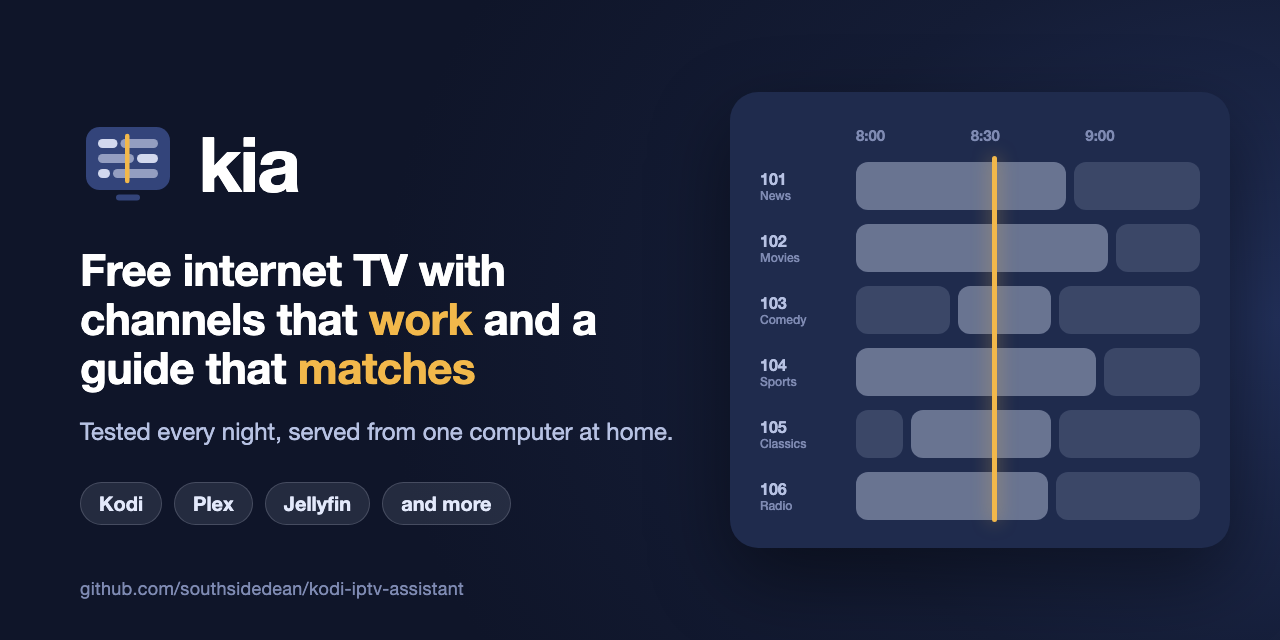
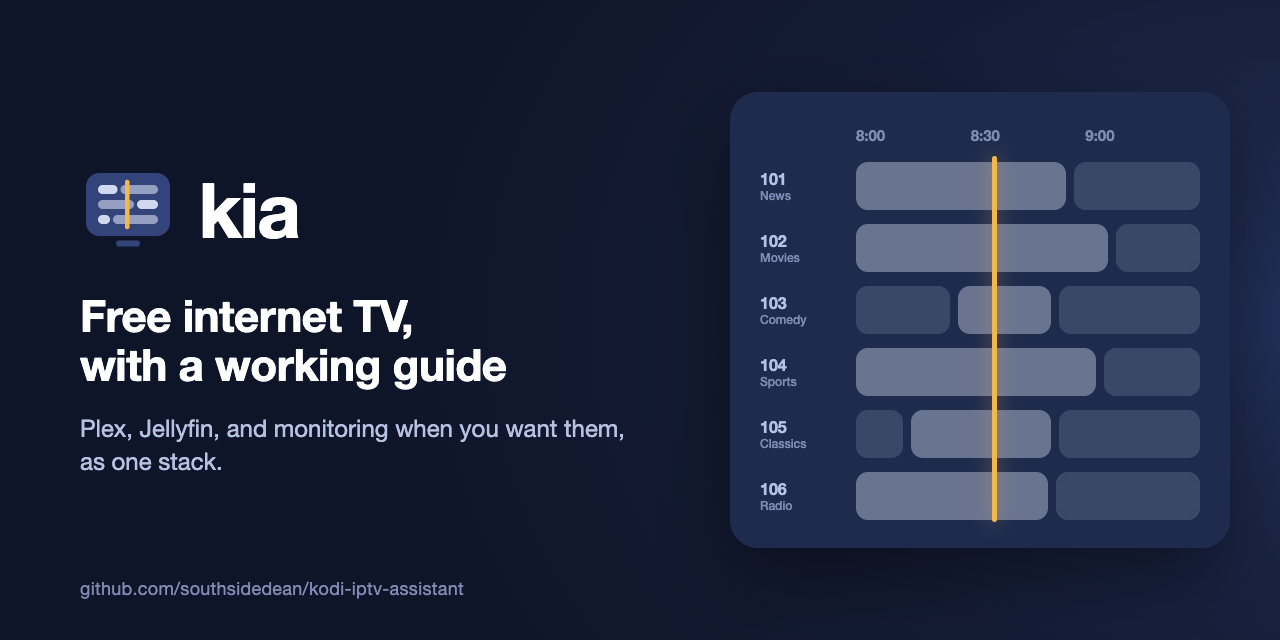
Plainer words on the social preview (#284)
The social preview's words read like a slogan, and the card was busy. It
now says two plain things: the headline "Free internet TV, with a
working guide", and under it "Plex, Jellyfin, and monitoring when you
want them, as one stack." The player pills and the highlighted words are
gone. The logo, colors, and guide picture are unchanged.

After this merges, upload `images/social-preview.png` again under
Settings, General, Social preview.

🤖 Generated with [Claude Code](https://claude.com/claude-code)

---------

diff --git a/images/social-preview.html b/images/social-preview.html
@@ -17,12 +17,8 @@
   .brand { display: flex; align-items: center; gap: 22px; margin-bottom: 34px; }
   .brand svg { width: 96px; height: 96px; }
   .brand .kia { font-size: 76px; font-weight: 800; letter-spacing: -2px; color: #fff; }
-  h1 { margin: 0 0 22px; font-size: 44px; line-height: 1.12; font-weight: 700; letter-spacing: -0.5px; color: #fff; }
-  h1 em { font-style: normal; color: #f2b84b; }
-  p { margin: 0 0 34px; font-size: 24px; line-height: 1.4; color: #b7c2e3; }
-  .players { display: flex; gap: 12px; }
-  .players span { font-size: 20px; font-weight: 600; padding: 8px 18px; border-radius: 999px;
-                  background: rgba(227,233,251,0.10); color: #e3e9fb; border: 1px solid rgba(227,233,251,0.18); }
+  p { margin: 22px 0 0; font-size: 24px; line-height: 1.4; color: #b7c2e3; }
+  h1 { margin: 0; font-size: 44px; line-height: 1.12; font-weight: 700; letter-spacing: -0.5px; color: #fff; }
   .repo { position: absolute; left: 80px; bottom: 40px; font-size: 18px; color: #7f8bb3; letter-spacing: 0.3px; }
 
   /* The guide: rows of shows, with the amber "now" line, echoing the logo. */
@@ -46,9 +42,8 @@
       <svg viewBox="0 0 64 64" aria-hidden="true"><rect x="4" y="8" width="56" height="42" rx="9" fill="#33447a"/><rect x="12" y="16" width="13" height="6" rx="3" fill="#e3e9fb" opacity="0.9"/><rect x="27" y="16" width="25" height="6" rx="3" fill="#e3e9fb" opacity="0.55"/><rect x="12" y="26" width="24" height="6" rx="3" fill="#e3e9fb" opacity="0.55"/><rect x="38" y="26" width="14" height="6" rx="3" fill="#e3e9fb" opacity="0.9"/><rect x="12" y="36" width="8" height="6" rx="3" fill="#e3e9fb" opacity="0.9"/><rect x="22" y="36" width="30" height="6" rx="3" fill="#e3e9fb" opacity="0.55"/><rect x="30" y="12.5" width="3" height="33" rx="1.5" fill="#f2b84b"/><rect x="24" y="53" width="16" height="4" rx="2" fill="#33447a"/></svg>
       <span class="kia">kia</span>
     </div>
-    <h1>Free internet TV with channels that <em>work</em> and a guide that <em>matches</em></h1>
-    <p>Tested every night, served from one computer at home.</p>
-    <div class="players"><span>Kodi</span><span>Plex</span><span>Jellyfin</span><span>and more</span></div>
+    <h1>Free internet TV,<br>with a working guide</h1>
+    <p>Plex, Jellyfin, and monitoring when you want them,<br>as one stack.</p>
   </div>
   <div class="repo">github.com/southsidedean/kodi-iptv-assistant</div>
 
